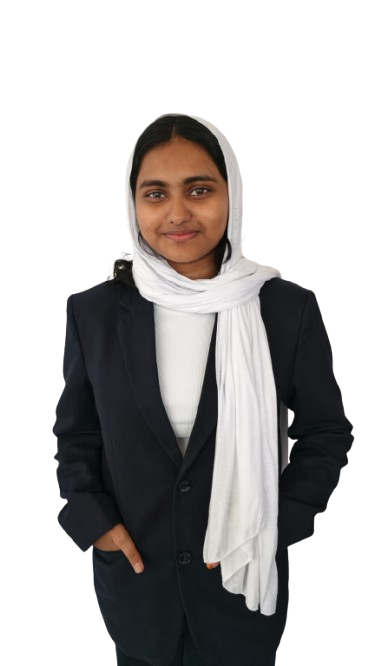
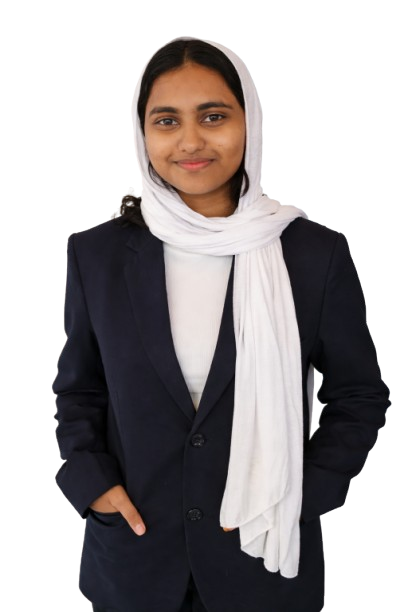
upload

diff --git a/project.css b/project.css
@@ -235,7 +235,6 @@ img {
 .home_image{
   width: 240px;
   height: 240px;
-  background-color: var(--white-color);
   border-radius: 50%;
   overflow: hidden;
   display: flex;
@@ -249,7 +248,7 @@ img {
   width: 100%;
   height: 100%;
   object-fit: cover;
-  object-position: center 20%;
+  object-position: center 10%;
 }
 
 .home_img{
@@ -380,7 +379,6 @@ img {
 .about_image{
   width: 240px;
   height: 240px;
-  background-color: var(--white-color);
   border-radius: 1rem;
   overflow: hidden;
   display: flex;
@@ -394,7 +392,7 @@ img {
   width: 100%;
   height: 100%;
   object-fit: cover;
-  object-position: center 20%;
+  object-position: center 10%;
 }
 
 /* ------------Projects------------- */

diff --git a/index.html b/index.html
@@ -121,7 +121,7 @@
                 </div>
 
                 <div class="about_image">
-                    <img src="mypic.png" alt="image" class="about_img">
+                    <img src="mypic1.png" alt="image" class="about_img">
                 </div>
             </div>
           </section>
